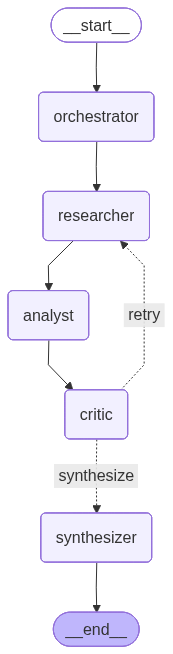
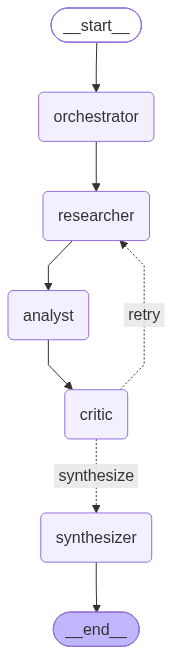
Tutoriel IA Agentique: update with Qween 3.8

diff --git a/src/tutorielIAAgentique/masScore.py b/src/tutorielIAAgentique/masScore.py
@@ -1,4 +1,6 @@
 # src/tutorielIAAgentique/masScore.py
+import re
+import time
 import os
 import operator
 from typing import TypedDict, Annotated, List
@@ -11,7 +13,30 @@ from tutorielIAAgentique.utils import debug_print
 from pathlib import Path
 load_dotenv(Path(__file__).resolve().parents[2] / '.env')
 client = Groq(api_key=os.getenv('GROQ_API_KEY'))
-llm = ChatGroq(model='qwen/qwen3.8-27b', temperature=0.0)
+
+def invoke_with_retry(prompt: str, retries: int = 3, wait: int = 5):
+    """Retry call for RateLimitError (429)."""
+    for attempt in range(retries):
+        try:
+            return llm.invoke(prompt)
+        except Exception as e:
+            if '429' in str(e) and attempt < retries - 1:
+                debug_print("RATE LIMIT", f"Pause {wait}s avant retry {attempt+1}/{retries}")
+                time.sleep(wait)
+            else:
+                raise
+
+# Groq (tier on_demand) plafonne la SORTIE à 1000 tokens/requête pour ce modèle :
+# on fixe max_tokens sous cette limite, sinon Groq renvoie 429 (OTPM).
+llm = ChatGroq(model='qwen/qwen3.8-27b', temperature=0.0, max_tokens=800)
+
+# ── Helper: strip <think>…</think> reasoning blocks ───────────
+# Qwen3 emits chain-of-thought tags that must not be treated as content.
+_THINK_RE = re.compile(r'<think>.*?</think>', re.DOTALL)
+
+def strip_think(text: str) -> str:
+    """Remove <think>…</think> blocks and collapse extra blank lines."""
+    return _THINK_RE.sub('', text).strip()
 
 # ── State shared between all agents ───────────────────────
 class AgentState(TypedDict):
@@ -30,9 +55,10 @@ def orchestrator_node(state: AgentState) -> AgentState:
     pour deux agents : un Researcher (recherche de faits) et un Analyst
     (analyse et raisonnement). Sois concis.
     Question : {state["query"]}"""
-    response = llm.invoke(prompt)
-    debug_print("ORCHESTRATOR PLAN", response.content) # type: ignore
-    return {'plan': response.content, 'iteration': 0}
+    response = invoke_with_retry(prompt)
+    plan = strip_think(response.content)  # type: ignore
+    debug_print("ORCHESTRATOR PLAN", plan)
+    return {'plan': plan, 'iteration': 0}
 
 
 # ── Researcher Agent ──────────────────────────────────────────
@@ -50,20 +76,25 @@ def researcher_node(state: AgentState) -> AgentState:
     # Ici : on peut injecter les outils de la Partie 1
     web_results = search_web(state['query'])
     prompt_with_context = prompt + f"\n\nRésultats web :\n{web_results}"
-    response = llm.invoke(prompt_with_context)
-    debug_print("RESEARCH", response.content) # type: ignore
-    return {'research': response.content}
+    response = invoke_with_retry(prompt_with_context)
+    research = strip_think(response.content)  # type: ignore
+    debug_print("RESEARCH", research)
+    return {'research': research}
 
 # ── Analyst Agent ─────────────────────────────────────────────
+# Troncature des entrées pour rester sous la limite TPM de Groq.
+_MAX_RESEARCH_CHARS = 800
+
 def analyst_node(state: AgentState) -> AgentState:
     prompt = f"""Tu es un analyste expert. Sur la base des recherches,
     fournis une analyse approfondie et des conclusions.
     Question : {state['query']}
-    Recherches : {state['research']}
+    Recherches : {state['research'][:_MAX_RESEARCH_CHARS]}
     Identifie les limites et incertitudes."""
-    response = llm.invoke(prompt)
-    debug_print("ANALYSIS", response.content) # type: ignore
-    return {'analysis': response.content}
+    response = invoke_with_retry(prompt)
+    analysis = strip_think(response.content)  # type: ignore
+    debug_print("ANALYSIS", analysis)
+    return {'analysis': analysis}
 
 # ── Critic Agent ──────────────────────────────────────────────
 def critic_node(state: AgentState) -> AgentState:
@@ -71,32 +102,33 @@ def critic_node(state: AgentState) -> AgentState:
     1. La qualité factuelle des recherches (0-10)
     2. La rigueur de l'analyse (0-10)
     3. Les informations manquantes ou contradictoires (0-10)
-    Recherches : {state['research']}
-    Analyse : {state['analysis']}
+    Recherches : {state['research'][:_MAX_RESEARCH_CHARS]}
+    Analyse : {state['analysis'][:_MAX_RESEARCH_CHARS]}
 
     Ta réponse DOIT se terminer par exactement cette ligne :
     SCORE: <entier de 0 à 10>
 
     Un score >= 7 est considéré satisfaisant. En dessous, fournis
     des instructions précises pour améliorer les recherches."""
-    response = llm.invoke(prompt)
-    debug_print("CRITIC", response.content)  # type: ignore
-    return {'critique': response.content, 'iteration': state['iteration'] + 1}
+    response = invoke_with_retry(prompt)
+    critique = strip_think(response.content)  # type: ignore
+    debug_print("CRITIC", critique)
+    return {'critique': critique, 'iteration': state['iteration'] + 1}
 
 # ── Synthesizer Agent ─────────────────────────────────────────
 def synthesizer_node(state: AgentState) -> AgentState:
     prompt = f"""Synthétise une réponse finale claire et complète.
     Question : {state['query']}
-    Recherches : {state['research']}
-    Analyse : {state['analysis']}
+    Recherches : {state['research'][:_MAX_RESEARCH_CHARS]}
+    Analyse : {state['analysis'][:_MAX_RESEARCH_CHARS]}
     Formate la réponse avec des sections claires."""
-    response = llm.invoke(prompt)
-    debug_print("SYNTHESIS", response.content) # type: ignore
-    return {'final_answer': response.content}
+    response = invoke_with_retry(prompt)
+    final = strip_think(response.content)  # type: ignore
+    debug_print("SYNTHESIS", final)
+    return {'final_answer': final}
 
 # ── Conditional Routing ──────────────────────────────────────
 def should_retry(state: AgentState) -> str:
-    import re
     critique = state["critique"]
     # Score extraction "SCORE: X"
     match = re.search(r"SCORE:\s*(\d+(?:\.\d+)?)", critique)

diff --git a/src/tutorielIAAgentique/agent.py b/src/tutorielIAAgentique/agent.py
@@ -1,7 +1,9 @@
 # src/tutorielIAAgentique/agent.py
 import os
 import re
+import time
 from groq import Groq
+from groq import APIConnectionError, APIStatusError, RateLimitError
 from dotenv import load_dotenv
 from tutorielIAAgentique.utils import debug_print
 from tutorielIAAgentique.tools import TOOLS
@@ -10,6 +12,36 @@ load_dotenv(Path(__file__).resolve().parents[2] / '.env')
 client = Groq(api_key=os.getenv('GROQ_API_KEY'))
 
 debug = True
+
+MAX_RETRIES = 4
+
+def _invoke_llm(messages: list) -> str:
+    """Appel LLM avec retry sur erreurs transitoires (rate limit / réseau)."""
+    delay = 3
+    attempt = 0
+    while True:
+        try:
+            response = client.chat.completions.create(
+                model="qwen/qwen3.8-27b",
+                messages=messages,
+                temperature=0,
+                seed=42,
+                max_tokens=800,
+                stop=["---END---"]
+            )
+            return response.choices[0].message.content
+        except (APIConnectionError, RateLimitError, APIStatusError) as e:
+            code = getattr(getattr(e, 'response', None), 'status_code', None)
+            transient = isinstance(e, APIConnectionError) or isinstance(e, RateLimitError) \
+                or (code is not None and code >= 500)
+            if transient and attempt < MAX_RETRIES:
+                attempt += 1
+                if debug:
+                    debug_print("RETRY", f"Erreur transitoire ({type(e).__name__}), nouvel essai {attempt}/{MAX_RETRIES} dans {delay}s...")
+                time.sleep(delay)
+                delay *= 2
+                continue
+            raise
 
 # Read prompt
 with open(os.path.join(os.path.dirname(__file__), 'prompt.md'), encoding='utf-8') as prompt_file:
@@ -42,15 +74,7 @@ def react_agent(question: str, max_steps: int = 6) -> str:
     # 2. Iterate (with max steps)
     for step in range(max_steps):
         # 2.a. Get the answer
-        response = client.chat.completions.create(
-            model="qwen/qwen3.8-27b",
-            messages=messages,
-            temperature=0,
-            seed=42,
-            max_tokens=2000,
-            stop=["---END---"]
-        )
-        reply = response.choices[0].message.content
+        reply = _invoke_llm(messages)
         if debug :
             debug_print("RESPONSE", reply)
         # 2.b. Add it to the message list

diff --git a/src/tutorielIAAgentique/mas.py b/src/tutorielIAAgentique/mas.py
@@ -12,7 +12,9 @@ from tutorielIAAgentique.tools import TOOLS
 from pathlib import Path
 load_dotenv(Path(__file__).resolve().parents[2] / '.env')
 client = Groq(api_key=os.getenv('GROQ_API_KEY'))
-llm = ChatGroq(model='qwen/qwen3.8-27b', temperature=0.0)
+# max_tokens borné pour respecter le quota OTPM (1000 token/min, tier on_demand)
+# de l'API Groq : 5 appels séquentiels dans la boucle doivent rester sous ce budget.
+llm = ChatGroq(model='qwen/qwen3.8-27b', temperature=0.0, max_tokens=200)
 
 # ── State shared between all agents ───────────────────────
 class AgentState(TypedDict):

diff --git a/src/tutorielIAAgentique/masFactChecker.py b/src/tutorielIAAgentique/masFactChecker.py
@@ -26,7 +26,9 @@ def invoke_with_retry(prompt: str, retries: int = 3, wait: int = 5):
             else:
                 raise
 
-llm = ChatGroq(model='qwen/qwen3.8-27b', temperature=0.0)
+# Groq (tier on_demand) plafonne la SORTIE à 1000 tokens/requête pour ce modèle :
+# on fixe max_tokens sous cette limite, sinon Groq renvoie 429 (OTPM).
+llm = ChatGroq(model='qwen/qwen3.8-27b', temperature=0.0, max_tokens=800)
 
 
 

diff --git a/src/tutorielIAAgentique/prompt.md b/src/tutorielIAAgentique/prompt.md
@@ -28,7 +28,10 @@ Rules you must obey:
 4. If the user asks for something you cannot do with the available tools, respond:
    `Answer: I'm sorry, I cannot help with that.` (and stop)
 5. Keep each Thought brief (≤2 sentences) and each Action to a single tool call.
-6. Do **not** repeat the previous Thought/Action in a later turn;
+6. You must **never** compute numerical results yourself — any arithmetic
+    (sum, difference, product, division, ratio, average, ...) MUST be delegated
+    to the `calculate` tool via an Action.
+7. Do **not** repeat the previous Thought/Action in a later turn;
     always generate a fresh one based on the new information you have just received.
 
 Available tools (you may only use these names):
